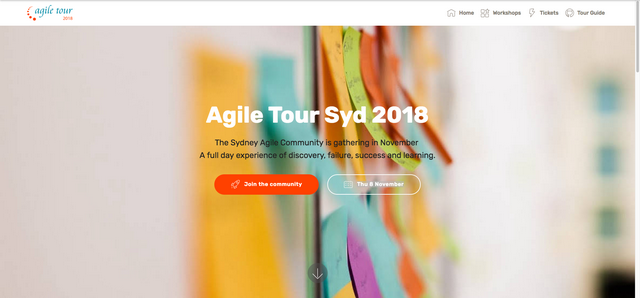
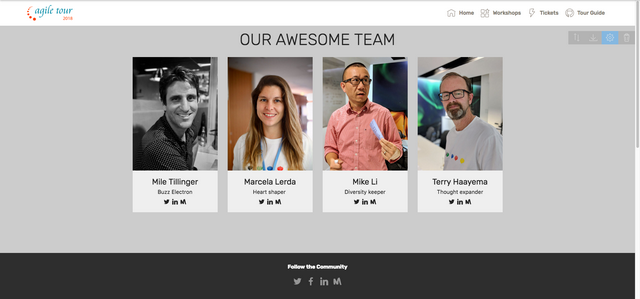
adding picture and descriptions

diff --git a/tourguide.html b/tourguide.html
@@ -7,7 +7,7 @@
   <meta name="generator" content="Mobirise v4.7.6, mobirise.com">
   <meta name="viewport" content="width=device-width, initial-scale=1, minimum-scale=1">
   <link rel="shortcut icon" href="assets/images/agiletour2018-278x122.png" type="image/x-icon">
-  <meta name="description" content="Web Page Creator Description">
+  <meta name="description" content="">
   <title>Tour Guide</title>
   <link rel="stylesheet" href="assets/web/assets/mobirise-icons/mobirise-icons.css">
   <link rel="stylesheet" href="assets/tether/tether.min.css">
@@ -15,8 +15,8 @@
   <link rel="stylesheet" href="assets/bootstrap/css/bootstrap-grid.min.css">
   <link rel="stylesheet" href="assets/bootstrap/css/bootstrap-reboot.min.css">
   <link rel="stylesheet" href="assets/socicon/css/styles.css">
-  <link rel="stylesheet" href="assets/dropdown/css/style.css">
   <link rel="stylesheet" href="assets/animatecss/animate.min.css">
+  <link rel="stylesheet" href="assets/dropdown/css/style.css">
   <link rel="stylesheet" href="assets/theme/css/style.css">
   <link rel="stylesheet" href="assets/mobirise/css/mbr-additional.css" type="text/css">
   
@@ -79,13 +79,13 @@
     </nav>
 </section>
 
-<section class="engine"><a href="https://mobirise.me/m">site design templates</a></section><section class="features16 cid-qTpp1rNmM7" id="features16-18">
+<section class="engine"><a href="https://mobirise.me/p">web templates free download</a></section><section class="features16 cid-qTpp1rNmM7 mbr-parallax-background" id="features16-18">
     
     
     
     <div class="container align-center">
         <h2 class="pb-3 mbr-fonts-style mbr-section-title display-2">
-            OUR AWESOME TEAM
+            OUR COMMUNITY TEAM
         </h2>
         
         <div class="row media-row">
@@ -284,6 +284,7 @@
   <script src="assets/viewportchecker/jquery.viewportchecker.js"></script>
   <script src="assets/dropdown/js/script.min.js"></script>
   <script src="assets/touchswipe/jquery.touch-swipe.min.js"></script>
+  <script src="assets/parallax/jarallax.min.js"></script>
   <script src="assets/theme/js/script.js"></script>
   
   

diff --git a/workshops.html b/workshops.html
@@ -79,7 +79,7 @@
     </nav>
 </section>
 
-<section class="engine"><a href="https://mobirise.me/e">make a site</a></section><section class="header1 cid-qPfhxnJ9nu mbr-parallax-background" id="header1-l">
+<section class="engine"><a href="https://mobirise.me/y">html website templates</a></section><section class="header1 cid-qPfhxnJ9nu mbr-parallax-background" id="header1-l">
 
     
 
@@ -170,7 +170,7 @@ Instead of requiring you to plan everything about your workshop up-front, (big u
                         Thanks for filling out the form!
                     </div>
             
[2 lines of base64/hex data omitted]
                         <div class="row row-sm-offset">
                             <div class="col-md-4 multi-horizontal" data-for="name">
                                 <div class="form-group">

diff --git a/index.html b/index.html
@@ -7,8 +7,9 @@
   <meta name="generator" content="Mobirise v4.7.6, mobirise.com">
   <meta name="viewport" content="width=device-width, initial-scale=1, minimum-scale=1">
   <link rel="shortcut icon" href="assets/images/agiletour2018-278x122.png" type="image/x-icon">
-  <meta name="description" content="">
-  <title>Home</title>
+  <meta name="description" content="The Sydney Agile Community is gathering in November 
+A full day experience of discovery, failure, success and learning.">
+  <title>Agile Tour Sydney</title>
   <link rel="stylesheet" href="assets/web/assets/mobirise-icons/mobirise-icons.css">
   <link rel="stylesheet" href="assets/tether/tether.min.css">
   <link rel="stylesheet" href="assets/bootstrap/css/bootstrap.min.css">
@@ -79,7 +80,7 @@
     </nav>
 </section>
 
-<section class="engine"><a href="https://mobirise.me/u">bootstrap responsive templates</a></section><section class="cid-qPf7ICkmto mbr-fullscreen mbr-parallax-background" id="header2-1">
+<section class="engine"><a href="https://mobirise.me/f">easy site builder</a></section><section class="cid-qPf7ICkmto mbr-fullscreen mbr-parallax-background" id="header2-1">
 
     
 

diff --git a/tickets.html b/tickets.html
@@ -7,7 +7,7 @@
   <meta name="generator" content="Mobirise v4.7.6, mobirise.com">
   <meta name="viewport" content="width=device-width, initial-scale=1, minimum-scale=1">
   <link rel="shortcut icon" href="assets/images/agiletour2018-278x122.png" type="image/x-icon">
-  <meta name="description" content="Tickets">
+  <meta name="description" content="We welcome everyone who passionately cares about making work a better place to deliver tangible value to customers">
   <title>Tickets</title>
   <link rel="stylesheet" href="assets/web/assets/mobirise-icons/mobirise-icons.css">
   <link rel="stylesheet" href="assets/tether/tether.min.css">
@@ -79,7 +79,7 @@
     </nav>
 </section>
 
-<section class="engine"><a href="https://mobirise.me/w">html5 templates</a></section><section class="header12 cid-qTr6h6M4GG mbr-fullscreen mbr-parallax-background" id="header12-1b">
+<section class="engine"><a href="https://mobirise.me/p">site templates free download</a></section><section class="header12 cid-qTr6h6M4GG mbr-fullscreen mbr-parallax-background" id="header12-1b">
 
     
 

diff --git a/assets/mobirise/css/mbr-additional.css b/assets/mobirise/css/mbr-additional.css
@@ -3062,7 +3062,7 @@ body {
 .cid-qTpp1rNmM7 {
   padding-top: 90px;
   padding-bottom: 90px;
-  background-color: #cccccc;
+  background-image: url("../../../assets/images/markus-spiske-666905-unsplash-2000x1333.jpg");
 }
 .cid-qTpp1rNmM7 .mbr-section-subtitle {
   color: #767676;
@@ -3095,6 +3095,9 @@ body {
 }
 .cid-qTpp1rNmM7 .team-item .item-caption {
   background: #efefef;
+}
+.cid-qTpp1rNmM7 H2 {
+  color: #efefef;
 }
 .cid-qPhZvpn6Kr {
   padding-top: 30px;
